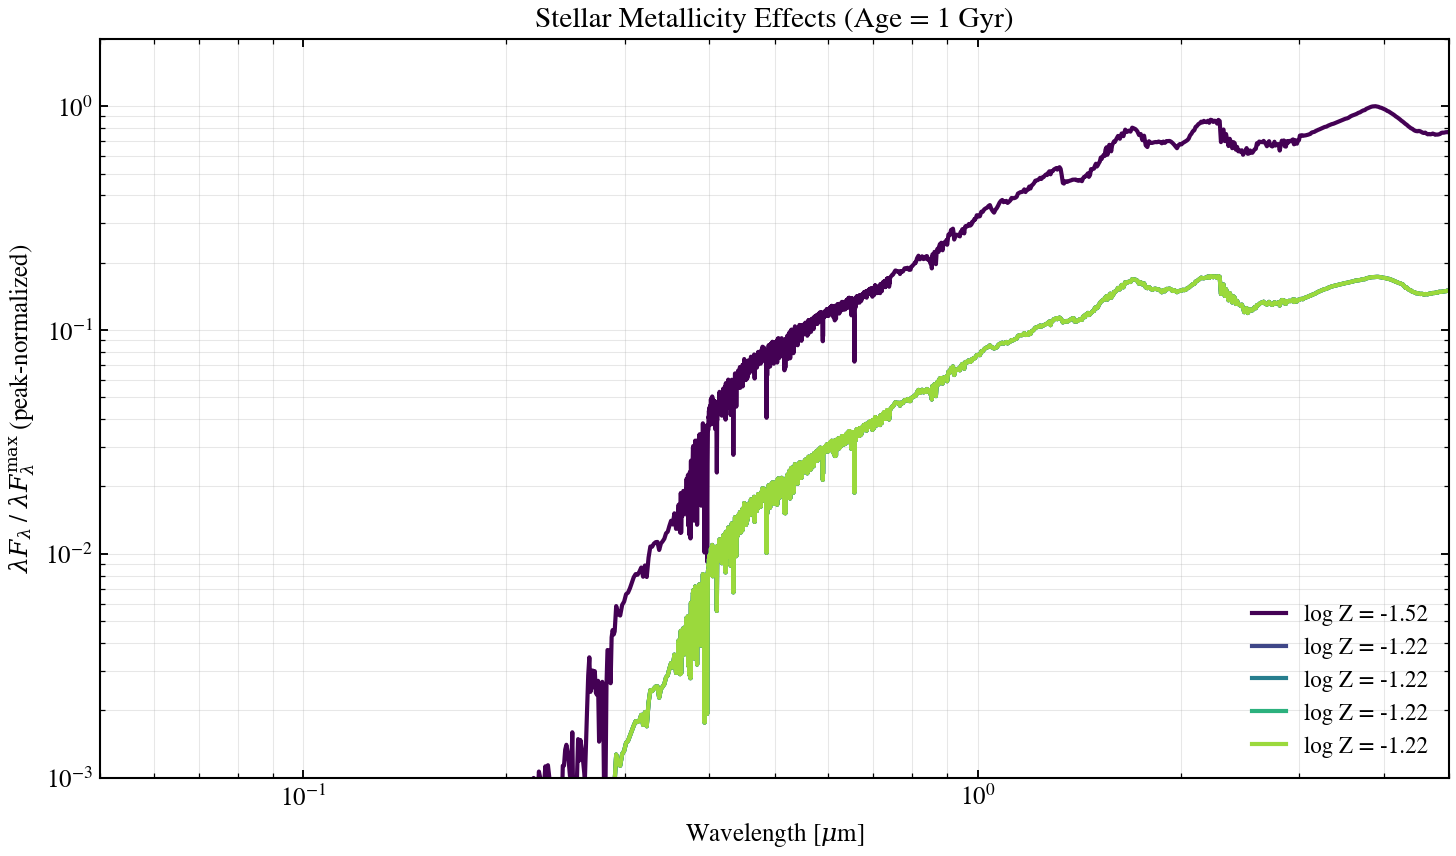
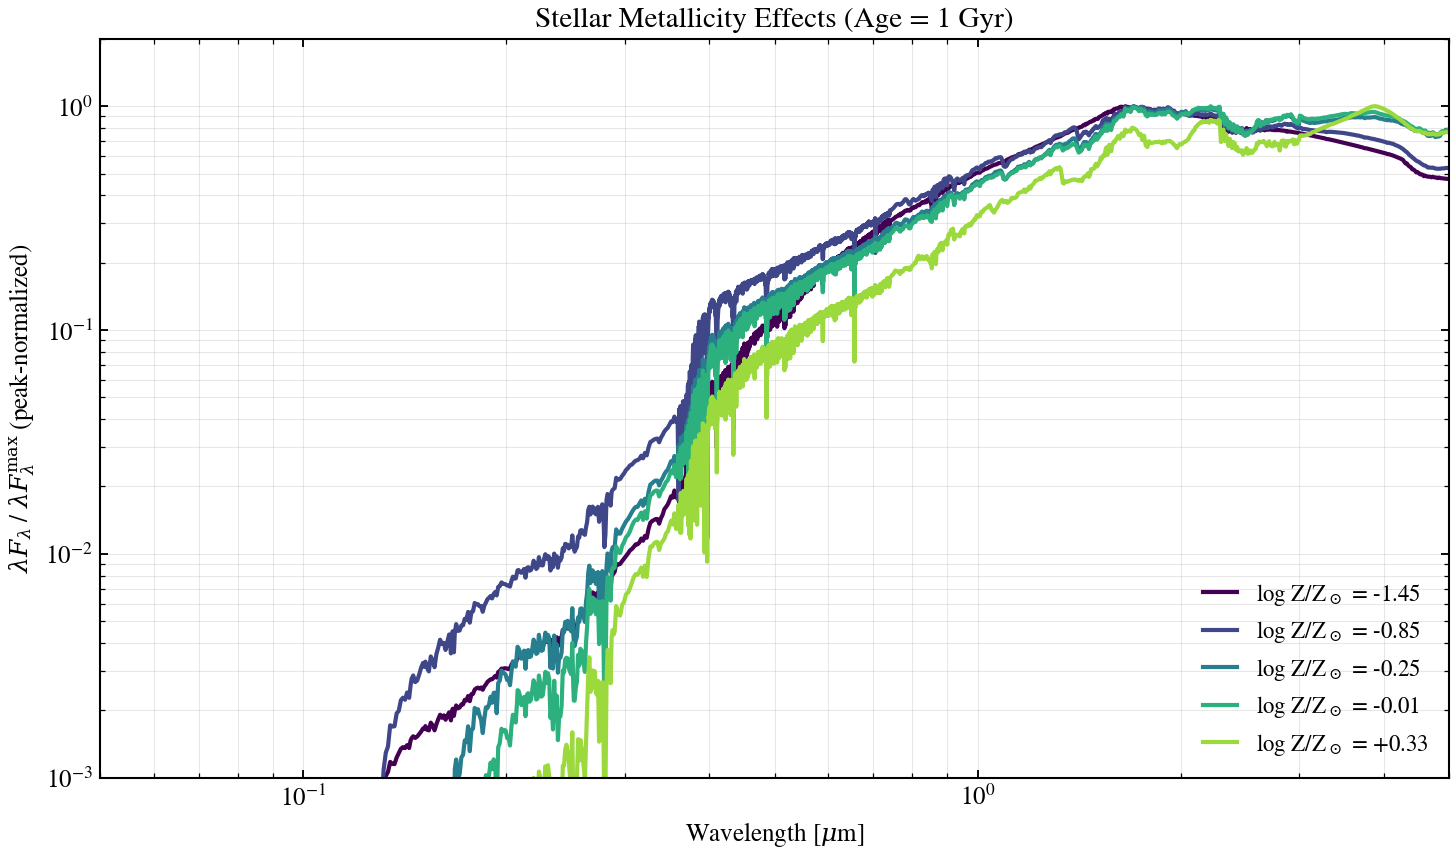
feat(examples): UVJ population diagram; fix JWST + SSP-metallicity bugs
usecases/plot_usecase_uvj_diagram (new):
- Mock 60 passive + 120 star-forming galaxies; rest-frame Johnson U/V +
  2MASS J colors; Williams+2009 quiescent box overplotted. Passive
  population sits cleanly inside the wedge; SF sequence runs along the
  diagonal.

usecases/plot_usecase_jwst_color_color (was blank):
- Real bug: predict_photometry returns an array, not an object with
  .flux_obs — bare except: pass swallowed the AttributeError on every
  galaxy, leaving the figure empty. Index the array directly.
- Passive sample peak_lbt_gyr 8-13 → 2-4.5 Gyr so the SFH places mass
  before the galaxy's age at z=1-3 (otherwise zero flux).
- Drop wrong outdir path; save next to the script like all other examples.
- Tighten axis frame on the actual color cluster.

sps/plot_ssp_metallicity_sweep:
- ssp_lgmet stores absolute log10(Z); the script's log_zsol-style targets
  [-1.5..0.3] all clipped to the grid maximum -1.22, producing five
  duplicate "log Z = -1.22" legend entries. Convert via LOG10_ZSUN so
  targets land on distinct grid points; relabel as log Z/Z_sun.

diff --git a/examples/usecases/plot_usecase_uvj_diagram.py b/examples/usecases/plot_usecase_uvj_diagram.py
@@ -1,0 +1,149 @@
+"""
+UVJ Diagram: Star-Forming vs Passive Galaxy Population
+========================================================
+
+Generates a mock galaxy population (star-forming + passive) and plots
+each galaxy on the rest-frame UVJ color-color plane (U-V vs V-J).
+The UVJ diagram (Wuyts+2007, Williams+2009) is the workhorse diagnostic
+for separating quiescent galaxies from dusty star-forming galaxies, which
+are degenerate in single-color cuts.
+
+The Williams+2009 quiescent wedge (z < 1) is overplotted:
+
+    (U - V) > 1.3
+    (V - J) < 1.6
+    (U - V) > 0.88 * (V - J) + 0.49
+
+Galaxies above the wedge: passive / quiescent.
+Galaxies below the wedge: star-forming, including dusty starbursts that
+extend to red V-J.
+"""
+
+from pathlib import Path
+
+import jax
+import matplotlib.pyplot as plt
+import numpy as np
+
+jax.config.update("jax_enable_x64", True)
+
+from tengri import (
+    Fixed,
+    Observation,
+    Parameters,
+    Photometry,
+    SEDModel,
+    Uniform,
+    load_ssp_data,
+    setup_style,
+)
+
+setup_style()
+
+
+def _find(rel: str) -> Path | None:
+    for d in [Path(rel), Path("..") / rel, Path("../..") / rel, Path("../../..") / rel]:
+        if d.exists():
+            return d
+    return None
+
+
+SSP_PATH = _find("data/ssp_prsc_miles_chabrier_wNE_logGasU-3.0_logGasZ0.0.h5")
+FILTER_DIR = _find("data/filters")
+if SSP_PATH is None or FILTER_DIR is None:
+    raise FileNotFoundError("SSP data or filters not found")
+
+ssp = load_ssp_data(str(SSP_PATH))
+
+# Rest-frame UVJ: Johnson U/V + 2MASS J. Using a tiny redshift z=0.01
+# keeps the colors effectively rest-frame (1% wavelength shift) while
+# avoiding the D_L → 0 singularity at z = 0 that makes f_nu blow up.
+obs = Observation(
+    photometry=Photometry.from_names(
+        ["johnson_u", "johnson_v", "2mass_j"], cache_dir=str(FILTER_DIR)
+    ),
+)
+
+
+def _color(flux: np.ndarray) -> tuple[float, float]:
+    """Return (U-V, V-J) AB-magnitude colors from f_nu."""
+    f_u, f_v, f_j = float(flux[0]), float(flux[1]), float(flux[2])
+    if f_u <= 0 or f_v <= 0 or f_j <= 0:
+        return np.nan, np.nan
+    uv = -2.5 * np.log10(f_u / f_v)
+    vj = -2.5 * np.log10(f_v / f_j)
+    return uv, vj
+
+
+def _sample_population(spec: Parameters, n: int, seed: int) -> np.ndarray:
+    model = SEDModel(spec, ssp, observation=obs)
+    out = np.full((n, 2), np.nan)
+    for i in range(n):
+        params = spec.sample(jax.random.fold_in(jax.random.PRNGKey(seed), i))
+        flux = np.asarray(model.predict_photometry(params))
+        out[i] = _color(flux)
+    return out
+
+
+# --- Star-forming population: ongoing SF, modest dust spread, broad SFH ---
+sf_spec = Parameters(
+    sfh_tsnorm_log_peak_sfr=Uniform(0.0, 1.5),
+    sfh_tsnorm_peak_lbt_gyr=Uniform(0.5, 4.0),
+    sfh_tsnorm_width_gyr=Uniform(1.0, 4.0),
+    sfh_tsnorm_skew=Uniform(-0.5, 1.0),
+    sfh_tsnorm_trunc=Uniform(2.0, 6.0),
+    met_logzsol=Uniform(-0.5, 0.2),
+    dust_tau_bc=Uniform(0.1, 1.5),
+    dust_tau_diff=Uniform(0.1, 1.0),
+    dust_slope=Fixed(-0.7),
+    redshift=Fixed(0.01),
+)
+
+# --- Passive population: old peak, narrow burst, very low dust ---
+passive_spec = Parameters(
+    sfh_tsnorm_log_peak_sfr=Uniform(-0.5, 0.5),
+    sfh_tsnorm_peak_lbt_gyr=Uniform(7.0, 11.0),
+    sfh_tsnorm_width_gyr=Uniform(0.5, 1.5),
+    sfh_tsnorm_skew=Uniform(-1.5, 0.0),
+    sfh_tsnorm_trunc=Uniform(1.5, 3.0),
+    met_logzsol=Uniform(-0.2, 0.3),
+    dust_tau_bc=Uniform(0.0, 0.15),
+    dust_tau_diff=Uniform(0.0, 0.1),
+    dust_slope=Fixed(-0.7),
+    redshift=Fixed(0.01),
+)
+
+sf_uvj = _sample_population(sf_spec, n=120, seed=0)
+passive_uvj = _sample_population(passive_spec, n=60, seed=1)
+
+# --- Plot ---
+fig, ax = plt.subplots(figsize=(8, 7))
+
+# Williams+2009 quiescent wedge (z<1):  (U-V)>1.3, (V-J)<1.6, (U-V)>0.88*(V-J)+0.49
+vj_grid = np.linspace(-0.5, 1.6, 100)
+uv_diag = 0.88 * vj_grid + 0.49
+ax.plot(vj_grid, np.maximum(uv_diag, 1.3), color="0.25", lw=1.6, ls="--",
+        label="Williams+2009 quiescent box")
+ax.plot([1.6, 1.6], [0.88 * 1.6 + 0.49, 2.5], color="0.25", lw=1.6, ls="--")
+
+ax.scatter(sf_uvj[:, 1], sf_uvj[:, 0], s=42, alpha=0.65, edgecolor="none",
+           color="#1f77b4", label=f"Star-forming (n={(~np.isnan(sf_uvj[:, 0])).sum()})")
+ax.scatter(passive_uvj[:, 1], passive_uvj[:, 0], s=58, alpha=0.85, marker="s",
+           edgecolor="0.15", linewidth=0.6, color="#d62728",
+           label=f"Passive (n={(~np.isnan(passive_uvj[:, 0])).sum()})")
+
+ax.set_xlim(-0.5, 2.5)
+ax.set_ylim(-0.2, 3.0)
+ax.set_xlabel(r"$V - J$ [mag, rest-frame]")
+ax.set_ylabel(r"$U - V$ [mag, rest-frame]")
+ax.set_title("UVJ diagram: star-forming vs passive galaxy population")
+ax.legend(frameon=False, loc="upper left")
+
+# Annotate the regions
+ax.text(0.6, 2.7, "Quiescent", fontsize=11, color="#a02020", ha="left")
+ax.text(2.0, 0.4, "Dusty SF", fontsize=11, color="#666666", ha="center")
+ax.text(0.0, 0.4, "Unobscured SF", fontsize=11, color="#1a4f8b", ha="left")
+
+fig.tight_layout()
+plt.savefig("plot_usecase_uvj_diagram.png", dpi=150, bbox_inches="tight")
+plt.show()

diff --git a/examples/usecases/plot_usecase_jwst_color_color.py b/examples/usecases/plot_usecase_jwst_color_color.py
@@ -108,9 +108,9 @@ for i in range(70):
         pred = model.predict_photometry(params)
         # Simple color: f277w / f150w (rest-frame UV slope) and f444w / f277w (IR)
         try:
-            f1 = float(pred.flux_obs[1])
-            f0 = float(pred.flux_obs[0])
-            f2 = float(pred.flux_obs[2])
+            f1 = float(pred[1])
+            f0 = float(pred[0])
+            f2 = float(pred[2])
             color1 = -2.5 * np.log10(f1 / f0) if f1 > 0 else 0
             color2 = -2.5 * np.log10(f2 / f1) if f2 > 0 else 0
             colors_sf.append([color1, color2])
@@ -122,7 +122,9 @@ for i in range(35):
     z = np.random.uniform(1.0, 3.0)
     spec = Parameters(
         sfh_tsnorm_log_peak_sfr=Uniform(-2.0, -0.5),  # Old, quenched
-        sfh_tsnorm_peak_lbt_gyr=Uniform(8.0, 13.0),  # Peaked early
+        # Peak before the galaxy's age at z=1-3 (~3-6 Gyr after Big Bang)
+        # so the SFH actually places mass; >8 Gyr lookback gives zero flux.
+        sfh_tsnorm_peak_lbt_gyr=Uniform(2.0, 4.5),
         sfh_tsnorm_width_gyr=Uniform(0.2, 1.0),
         sfh_tsnorm_skew=Uniform(-2.0, 0.0),
         sfh_tsnorm_trunc=Uniform(1.0, 3.0),
@@ -138,9 +140,9 @@ for i in range(35):
         params = spec.sample(k)
         pred = model.predict_photometry(params)
         try:
-            f1 = float(pred.flux_obs[1])
-            f0 = float(pred.flux_obs[0])
-            f2 = float(pred.flux_obs[2])
+            f1 = float(pred[1])
+            f0 = float(pred[0])
+            f2 = float(pred[2])
             color1 = -2.5 * np.log10(f1 / f0) if f1 > 0 else 0
             color2 = -2.5 * np.log10(f2 / f1) if f2 > 0 else 0
             colors_passive.append([color1, color2])
@@ -168,9 +170,9 @@ for i in range(45):
         params = spec.sample(k)
         pred = model.predict_photometry(params)
         try:
-            f1 = float(pred.flux_obs[1])
-            f0 = float(pred.flux_obs[0])
-            f2 = float(pred.flux_obs[2])
+            f1 = float(pred[1])
+            f0 = float(pred[0])
+            f2 = float(pred[2])
             color1 = -2.5 * np.log10(f1 / f0) if f1 > 0 else 0
             color2 = -2.5 * np.log10(f2 / f1) if f2 > 0 else 0
             colors_agn.append([color1, color2])
@@ -227,14 +229,11 @@ ax.set_title(
 )
 ax.grid(True, alpha=0.3, linestyle="--")
 ax.legend(frameon=False, fontsize=11, loc="best")
-ax.set_xlim(-1.0, 3.0)
-ax.set_ylim(-1.0, 3.0)
+# Frame on the actual color cluster with breathing room either side.
+ax.set_xlim(-1.5, 0.5)
+ax.set_ylim(-0.5, 0.5)
 
 fig.tight_layout()
 
-outdir = (
-    Path(__file__).resolve().parent.parent.parent / "figures" if "__file__" in dir() else Path(".")
-)
-outdir.mkdir(parents=True, exist_ok=True)
-plt.savefig(str(outdir / "usecase_jwst_color_color.png"), dpi=150, bbox_inches="tight")
+plt.savefig("plot_usecase_jwst_color_color.png", dpi=150, bbox_inches="tight")
 plt.show()

diff --git a/examples/sps/plot_ssp_metallicity_sweep.py b/examples/sps/plot_ssp_metallicity_sweep.py
@@ -53,10 +53,15 @@ ssp_spec = np.array(ssp_data.ssp_flux)  # Shape: (n_z, n_age, n_wave)
 # Fixed age: 1 Gyr
 age_idx = np.argmin(np.abs(age_gyr - 1.0))
 
-# Select 5 metallicities spanning the grid
-log_z_targets = [-1.5, -1.0, -0.3, 0.0, 0.3]
+# Select 5 metallicities spanning the grid. ssp_lgmet stores absolute
+# log10(Z); convert user-friendly log(Z/Zsun) targets via LOG10_ZSUN so
+# the requested values land on distinct grid points instead of all
+# clipping to the grid maximum.
+LOG10_ZSUN = -1.848
+log_zsol_targets = [-1.5, -1.0, -0.3, 0.0, 0.3]
+log_z_targets = [t + LOG10_ZSUN for t in log_zsol_targets]
 met_indices = [np.argmin(np.abs(log_z - t)) for t in log_z_targets]
-met_labels = [f"log Z = {log_z[i]:.2f}" for i in met_indices]
+met_labels = [f"log Z/Z$_\\odot$ = {log_z[i] - LOG10_ZSUN:+.2f}" for i in met_indices]
 
 # Clamp viridis colormap to 0.0–0.85
 colors = plt.cm.viridis(np.linspace(0.0, 0.85, len(met_indices)))
